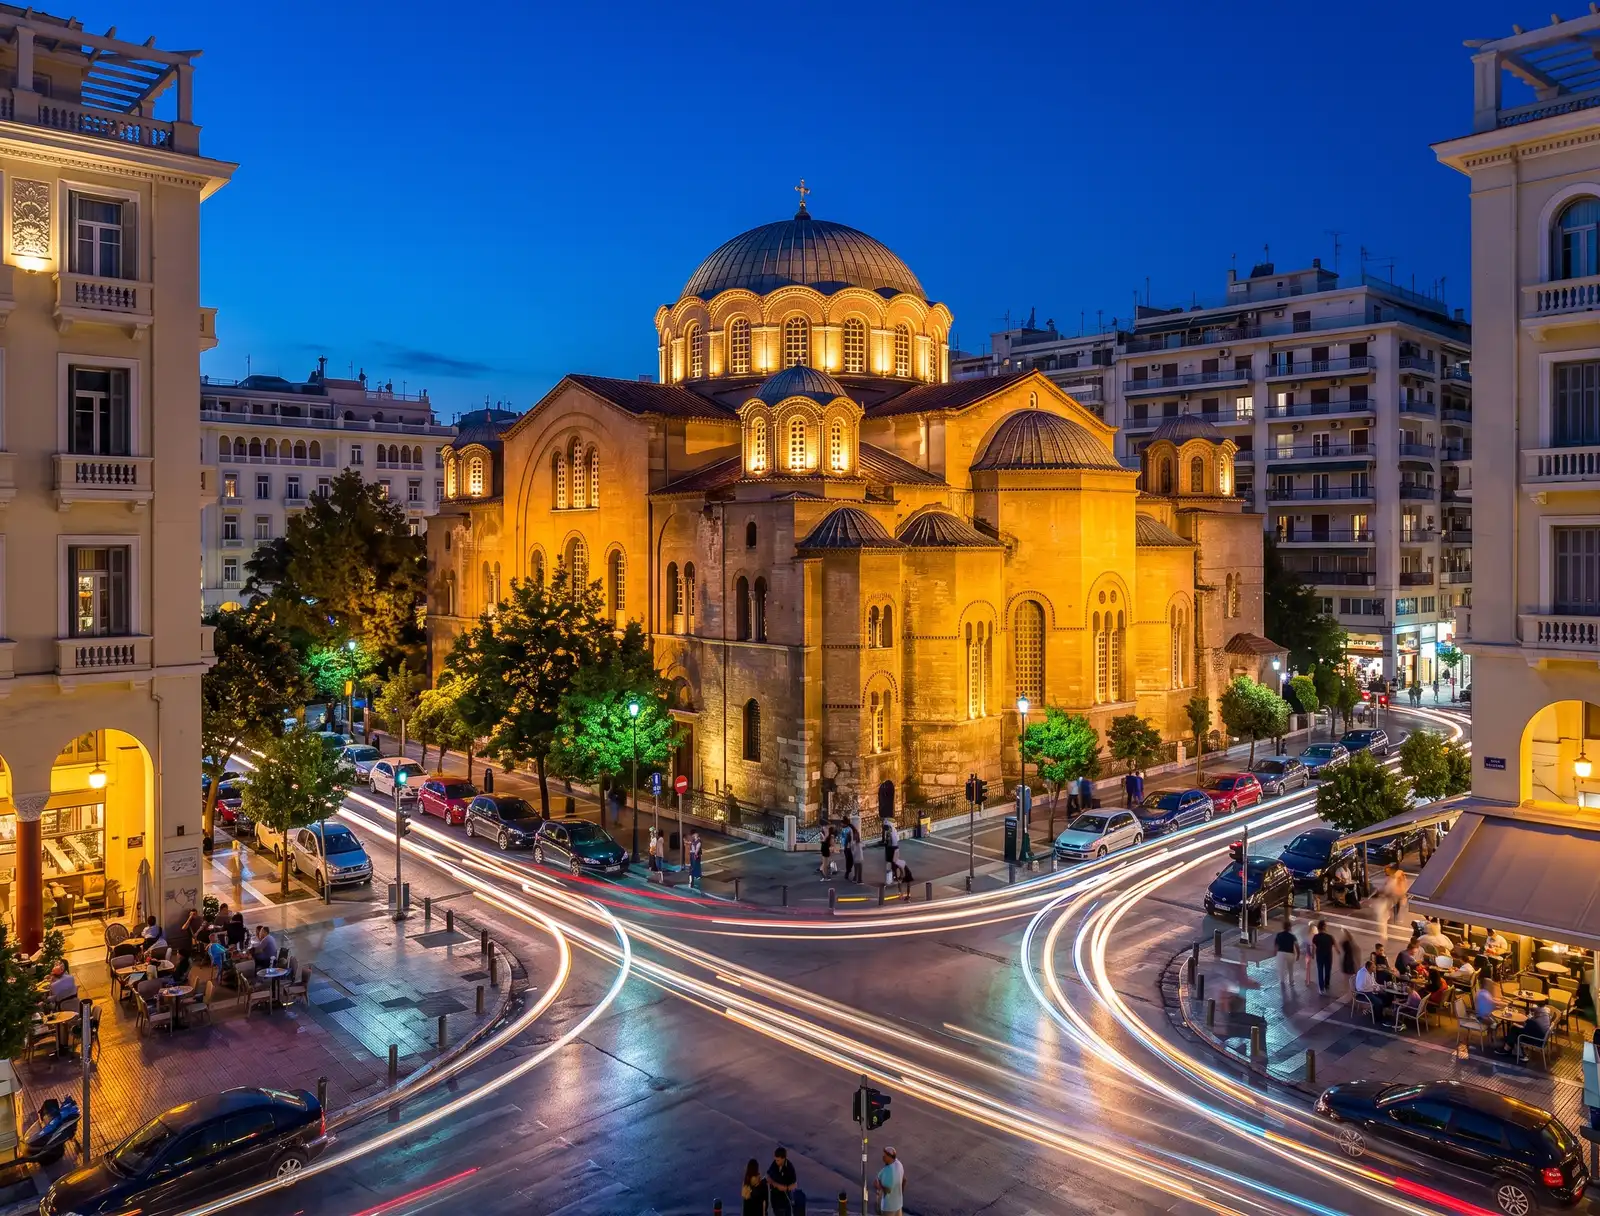
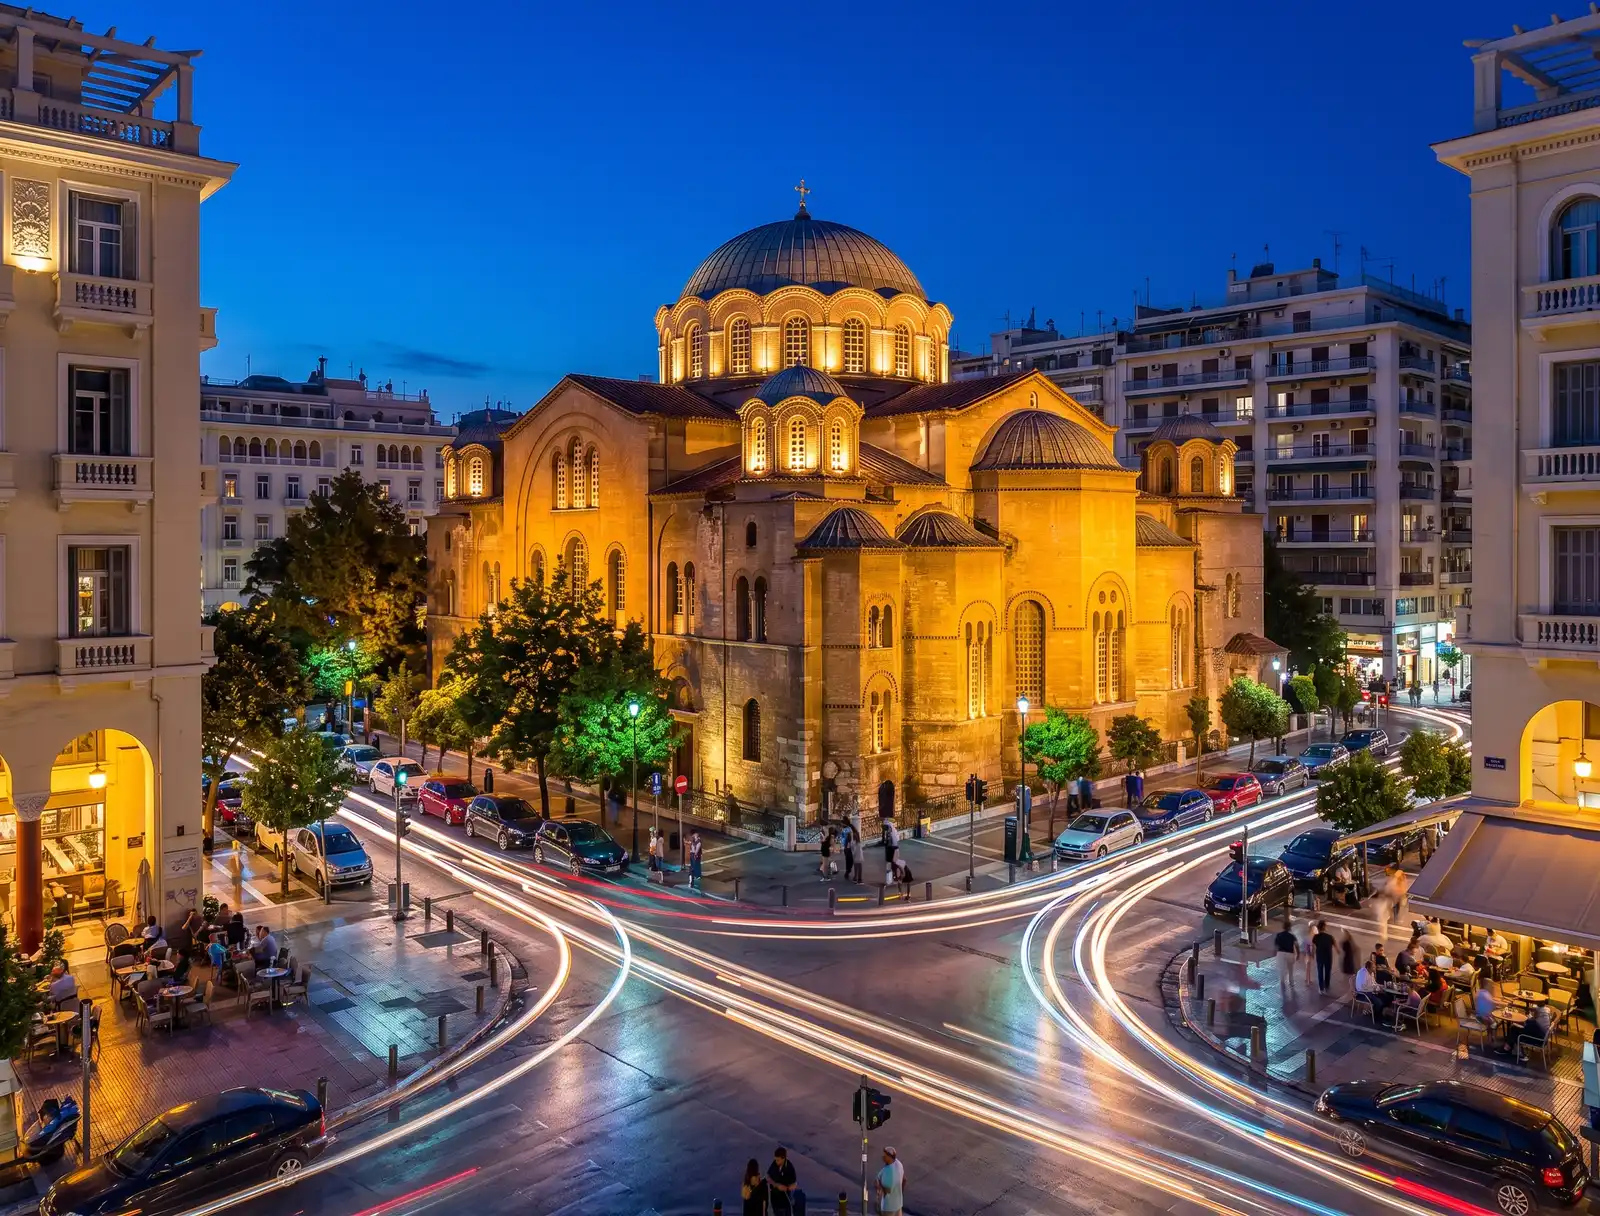
Own photographs for the Upper Town, the waterfront and the day trips
Nine more files, checked against what they claim to show before publishing —
including the flag on the Heptapyrgion, which is the Palaiologos flag and
belongs on a Byzantine fortress, not the foreign one it resembles at a glance.

  white-tower           3130KB -> 151KB
  byzantine-walls       4160KB -> 203KB
  heptapyrgion          3813KB -> 212KB
  vlatadon-monastery    4136KB -> 210KB
  nea-paralia           3083KB -> 194KB
  mount-olympus         4269KB -> 238KB
  edessa                4240KB -> 243KB
  meteora               3479KB -> 195KB
  chalkidiki            3532KB -> 181KB

Nea Paralia, the Heptapyrgion and Chalkidiki had no photograph at all before.

Three filenames the importer could not resolve, now handled generally rather
than one by one:

- "nea-paraliα.jpeg" ends in a Greek alpha. Filenames typed on a Greek keyboard
  mix scripts invisibly, so Greek characters that are visually identical to
  Latin ones are folded before the slug is matched.
- "βυζαντινα τοιχοι.jpeg" uses the everyday word for walls rather than the one
  the alias table had; more aliases added, day-trip destinations included.
- Two tall photographs bottomed out above the size target, so the quality
  ladder gained lower steps.

With the monuments photographed, all eight guide covers now use the owner's
images. Nine superseded Wikimedia files are removed.

Four borrowed photographs remain: the Roman Forum, the two waterfront museums
and Vergina.

diff --git a/src/content/data/attractions.ts b/src/content/data/attractions.ts
@@ -83,12 +83,11 @@ It sits next to the **Archaeological Museum**, the **Museum of Byzantine Culture
     },
     photos: [
       {
-        url: "/photos/7250c0b344.webp",
-        alt: { el: "Ο Λευκός Πύργος της Θεσσαλονίκης", en: "The White Tower of Thessaloniki" },
-        author: "CeeGee",
-        license: "CC BY-SA 4.0",
-        licenseUrl: "https://creativecommons.org/licenses/by-sa/4.0",
-        sourceUrl: "https://commons.wikimedia.org/wiki/File:WhiteTowerThessaloniki_(3).JPG",
+        url: "/photos/white-tower.webp",
+        alt: {
+          el: "Ο Λευκός Πύργος και η παραλία της Θεσσαλονίκης το σούρουπο, με τα φώτα στον Θερμαϊκό",
+          en: "The White Tower and the Thessaloniki waterfront at dusk, lights across the Thermaic Gulf",
+        },
       },
     ],
     contact: { website: "https://lpth.gr/" },
@@ -538,12 +537,11 @@ It is one of the **UNESCO monuments**. It is an active monastery, so dress modes
     },
     photos: [
       {
-        url: "/photos/656327a394.webp",
-        alt: { el: "Η Μονή Βλατάδων", en: "Vlatades Monastery" },
-        author: "Stolbovsky",
-        license: "CC BY-SA 3.0",
-        licenseUrl: "https://creativecommons.org/licenses/by-sa/3.0",
-        sourceUrl: "https://commons.wikimedia.org/wiki/File:Monastery_of_the_Vlatades_09.jpg",
+        url: "/photos/vlatadon-monastery.webp",
+        alt: {
+          el: "Η Μονή Βλατάδων στην Άνω Πόλη, με τη Θεσσαλονίκη και τον Θερμαϊκό να απλώνονται από κάτω",
+          en: "Vlatades Monastery in the Upper Town, with Thessaloniki and the gulf spread out below",
+        },
       },
     ],
     contact: {},
@@ -605,12 +603,11 @@ Part of the **UNESCO monuments**. Combine them with Vlatades Monastery and the H
     },
     photos: [
       {
-        url: "/photos/601b3f32d6.webp",
-        alt: { el: "Τα βυζαντινά τείχη της Θεσσαλονίκης", en: "The Byzantine walls of Thessaloniki" },
-        author: "Julian Nyča",
-        license: "CC BY-SA 3.0",
-        licenseUrl: "https://creativecommons.org/licenses/by-sa/3.0",
-        sourceUrl: "https://commons.wikimedia.org/wiki/File:Saloniki_City_Walls_2.jpg",
+        url: "/photos/byzantine-walls.webp",
+        alt: {
+          el: "Τα βυζαντινά τείχη της Άνω Πόλης στο ηλιοβασίλεμα, με θέα σε όλη την πόλη και τον Θερμαϊκό",
+          en: "The Byzantine walls of the Upper Town at sunset, overlooking the whole city and the gulf",
+        },
       },
     ],
     contact: {},
@@ -664,7 +661,15 @@ At the top of Ano Poli; combine it with the Byzantine walls and Vlatades Monaste
       area: "ano-poli",
       address: { el: "Άνω Πόλη, Θεσσαλονίκη", en: "Ano Poli, Thessaloniki" },
     },
-    photos: [],
+    photos: [
+      {
+        url: "/photos/heptapyrgion.webp",
+        alt: {
+          el: "Το Επταπύργιο (Γεντί Κουλέ) από ψηλά στο ηλιοβασίλεμα, με τη βυζαντινή σημαία στον πύργο",
+          en: "The Heptapyrgion (Yedi Kule) from above at sunset, the Byzantine flag flying from its tower",
+        },
+      },
+    ],
     contact: {},
     updatedAt: "2026-09-08",
   },
@@ -770,7 +775,15 @@ Free, always open, and ideal for **sunset**, running and cycling. The Archaeolog
       area: "waterfront",
       address: { el: "Νέα Παραλία, Θεσσαλονίκη", en: "Waterfront, Thessaloniki" },
     },
-    photos: [],
+    photos: [
+      {
+        url: "/photos/nea-paralia.webp",
+        alt: {
+          el: "Οι «Ομπρέλες» του Ζογγολόπουλου στη Νέα Παραλία στο ηλιοβασίλεμα, με τον Λευκό Πύργο στο βάθος",
+          en: "Zongolopoulos's \"Umbrellas\" on the waterfront at sunset, the White Tower beyond",
+        },
+      },
+    ],
     contact: {},
     updatedAt: "2026-09-08",
   },

diff --git a/src/content/data/daytrips.ts b/src/content/data/daytrips.ts
@@ -95,12 +95,11 @@ It lies about **90 km** (~1 hr 15 min) away. For a simple stroll/lunch, Litochor
     category: "nature",
     photos: [
       {
-        url: "/photos/07da3bf8c1.webp",
-        alt: { el: "Ο Όλυμπος", en: "Mount Olympus" },
-        author: "kallerna",
-        license: "CC BY-SA 4.0",
-        licenseUrl: "https://creativecommons.org/licenses/by-sa/4.0",
-        sourceUrl: "https://commons.wikimedia.org/wiki/File:Olympus_National_Park_30.jpg",
+        url: "/photos/mount-olympus.webp",
+        alt: {
+          el: "Πεζοπόροι στο μονοπάτι του Ολύμπου, με τις κορυφές του Εθνικού Δρυμού στο βάθος",
+          en: "Hikers on the Mount Olympus trail, the peaks of the national park beyond",
+        },
       },
     ],
     featured: true,
@@ -143,12 +142,11 @@ It lies about **90 km** (~1 hour) to the west. Ideal for a calm one-day family t
     category: "nature",
     photos: [
       {
-        url: "/photos/b325d840df.webp",
-        alt: { el: "Ο καταρράκτης της Έδεσσας", en: "The Edessa waterfall" },
-        author: "Itto Ogami",
-        license: "CC BY 3.0",
-        licenseUrl: "https://creativecommons.org/licenses/by/3.0",
-        sourceUrl: "https://commons.wikimedia.org/wiki/File:La_cascata_-_panoramio_(1).jpg",
+        url: "/photos/edessa.webp",
+        alt: {
+          el: "Οι καταρράκτες της Έδεσσας να πέφτουν δίπλα στα παραδοσιακά σπίτια της πόλης",
+          en: "The waterfalls of Edessa dropping beside the town's traditional houses",
+        },
       },
     ],
   },
@@ -194,7 +192,15 @@ For everything on Chalkidiki (beaches, stays, villages and tips) see our dedicat
     distanceKm: 70,
     drivingTime: { el: "~1 ώρα (Κασσάνδρα)", en: "~1 hour (Kassandra)" },
     category: "beach",
-    photos: [],
+    photos: [
+      {
+        url: "/photos/chalkidiki.webp",
+        alt: {
+          el: "Οι κολπίσκοι της Σιθωνίας στη Χαλκιδική από ψηλά, με τον Άθω στον ορίζοντα",
+          en: "The coves of Sithonia in Chalkidiki from above, with Mount Athos on the horizon",
+        },
+      },
+    ],
     featured: true,
   },
   {
@@ -231,12 +237,11 @@ It is the **most distant** trip on this list, about **230 km** (~2 hr 45 min). I
     category: "history",
     photos: [
       {
-        url: "/photos/0e94e9187b.webp",
-        alt: { el: "Τα μοναστήρια των Μετεώρων", en: "The monasteries of Meteora" },
-        author: "Stathis floros",
-        license: "CC BY-SA 4.0",
-        licenseUrl: "https://creativecommons.org/licenses/by-sa/4.0",
-        sourceUrl: "https://commons.wikimedia.org/wiki/File:Meteora%27s_monastery_2.jpg",
+        url: "/photos/meteora.webp",
+        alt: {
+          el: "Τα μοναστήρια των Μετεώρων πάνω στους βράχους, στο φως του ηλιοβασιλέματος",
+          en: "The monasteries of Meteora atop their rock pillars in the light of sunset",
+        },
       },
     ],
   },

diff --git a/src/content/data/guides.ts b/src/content/data/guides.ts
@@ -89,12 +89,11 @@ export const guides: Guide[] = [
     },
     category: "areas",
     cover: {
-      url: "/photos/601b3f32d6.webp",
-      alt: { el: "Τα τείχη και η Άνω Πόλη", en: "The walls and the Upper Town" },
-      author: "Julian Nyča",
-      license: "CC BY-SA 3.0",
-      licenseUrl: "https://creativecommons.org/licenses/by-sa/3.0",
-      sourceUrl: "https://commons.wikimedia.org/wiki/File:Saloniki_City_Walls_2.jpg",
+      url: "/photos/byzantine-walls.webp",
+      alt: {
+        el: "Τα βυζαντινά τείχη πάνω από την Άνω Πόλη, με τις γειτονιές της Θεσσαλονίκης να απλώνονται ως τη θάλασσα",
+        en: "The Byzantine walls above the Upper Town, Thessaloniki's neighbourhoods spreading down to the sea",
+      },
     },
     author: "ThessalonikiHub",
     publishedAt: "2026-09-02",
@@ -137,12 +136,11 @@ export const guides: Guide[] = [
     },
     category: "tips",
     cover: {
-      url: "/photos/7250c0b344.webp",
-      alt: { el: "Θεσσαλονίκη", en: "Thessaloniki" },
-      author: "CeeGee",
-      license: "CC BY-SA 4.0",
-      licenseUrl: "https://creativecommons.org/licenses/by-sa/4.0",
-      sourceUrl: "https://commons.wikimedia.org/wiki/File:WhiteTowerThessaloniki_(3).JPG",
+      url: "/photos/white-tower.webp",
+      alt: {
+        el: "Ο Λευκός Πύργος στην παραλία, το πρώτο σημείο αναφοράς όταν φτάνεις στην πόλη",
+        en: "The White Tower on the waterfront, the first landmark you reach in the city",
+      },
     },
     author: "ThessalonikiHub",
     publishedAt: "2026-09-06",
@@ -161,12 +159,11 @@ export const guides: Guide[] = [
     },
     category: "itinerary",
     cover: {
-      url: "/photos/601b3f32d6.webp",
-      alt: { el: "Θέα στη Θεσσαλονίκη", en: "View over Thessaloniki" },
-      author: "Julian Nyča",
-      license: "CC BY-SA 3.0",
-      licenseUrl: "https://creativecommons.org/licenses/by-sa/3.0",
-      sourceUrl: "https://commons.wikimedia.org/wiki/File:Saloniki_City_Walls_2.jpg",
+      url: "/photos/byzantine-walls.webp",
+      alt: {
+        el: "Ηλιοβασίλεμα από τα βυζαντινά τείχη της Άνω Πόλης, με θέα σε όλη τη Θεσσαλονίκη",
+        en: "Sunset from the Byzantine walls of the Upper Town, looking out over all of Thessaloniki",
+      },
     },
     author: "ThessalonikiHub",
     publishedAt: "2026-09-07",
